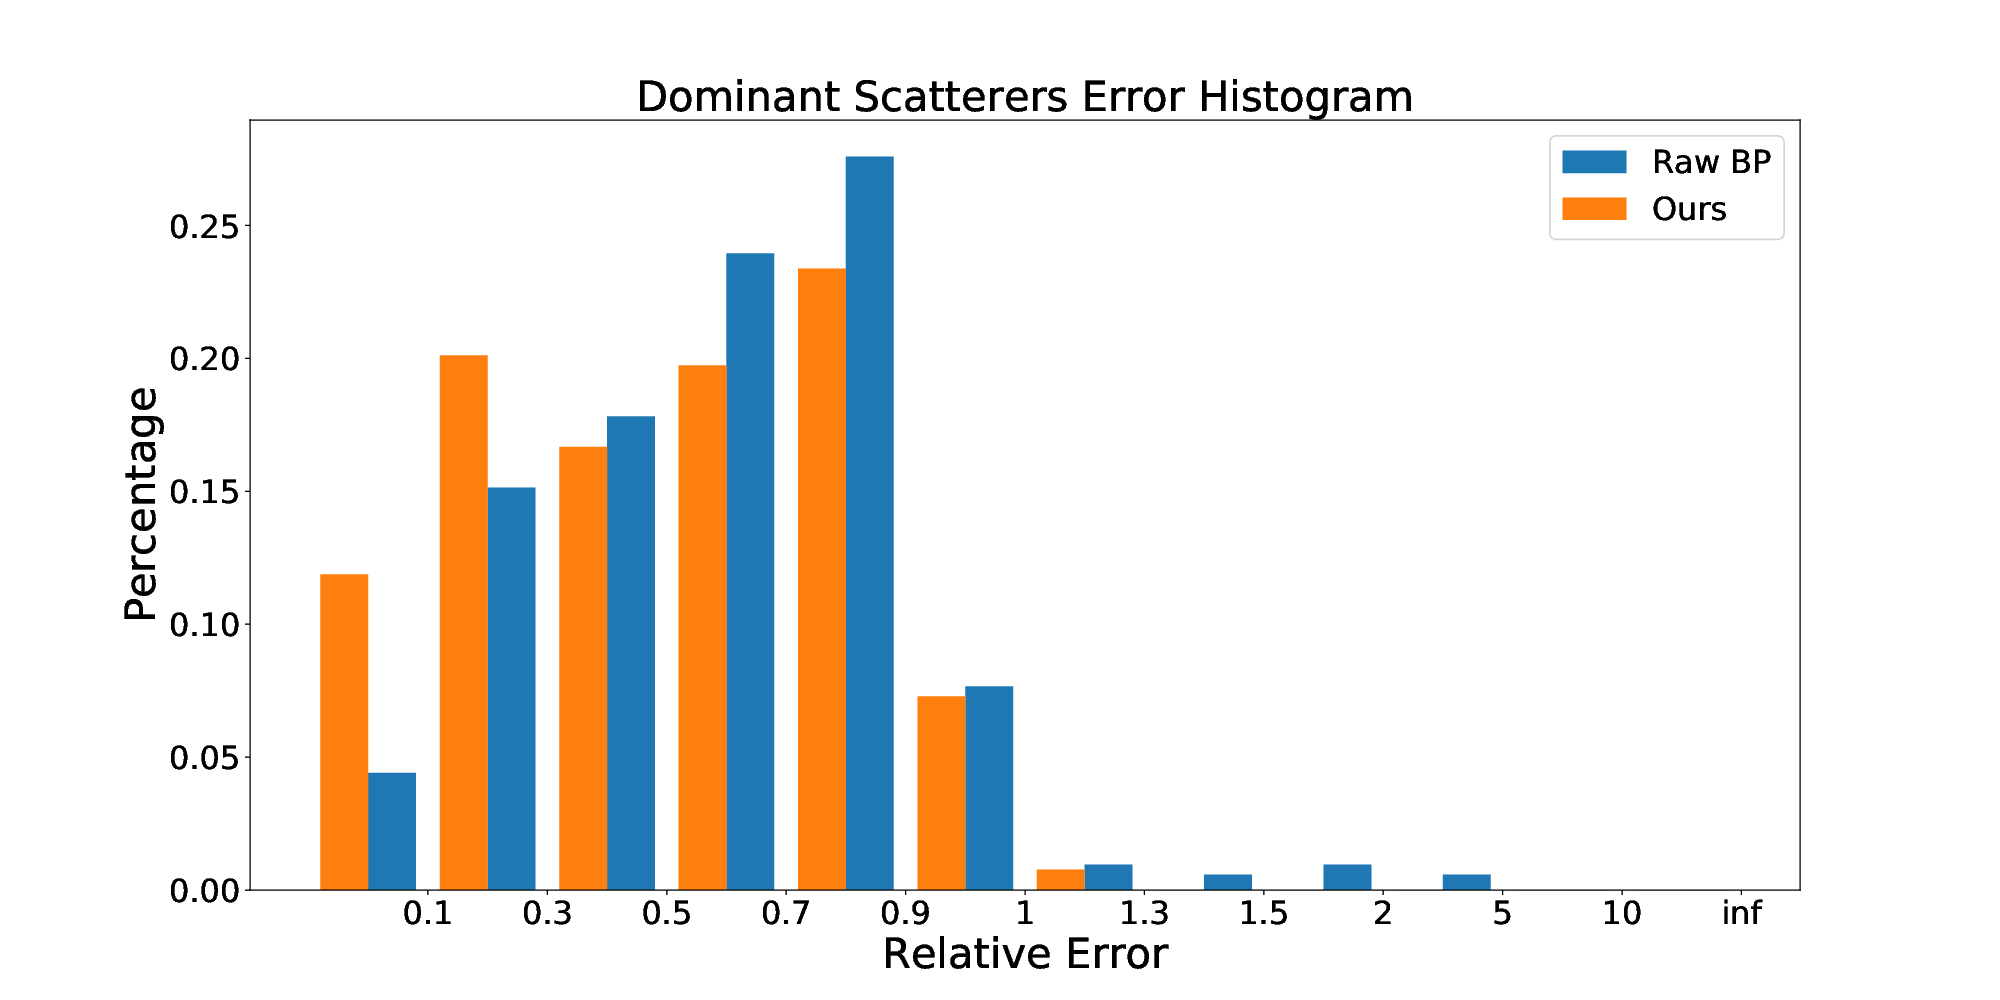
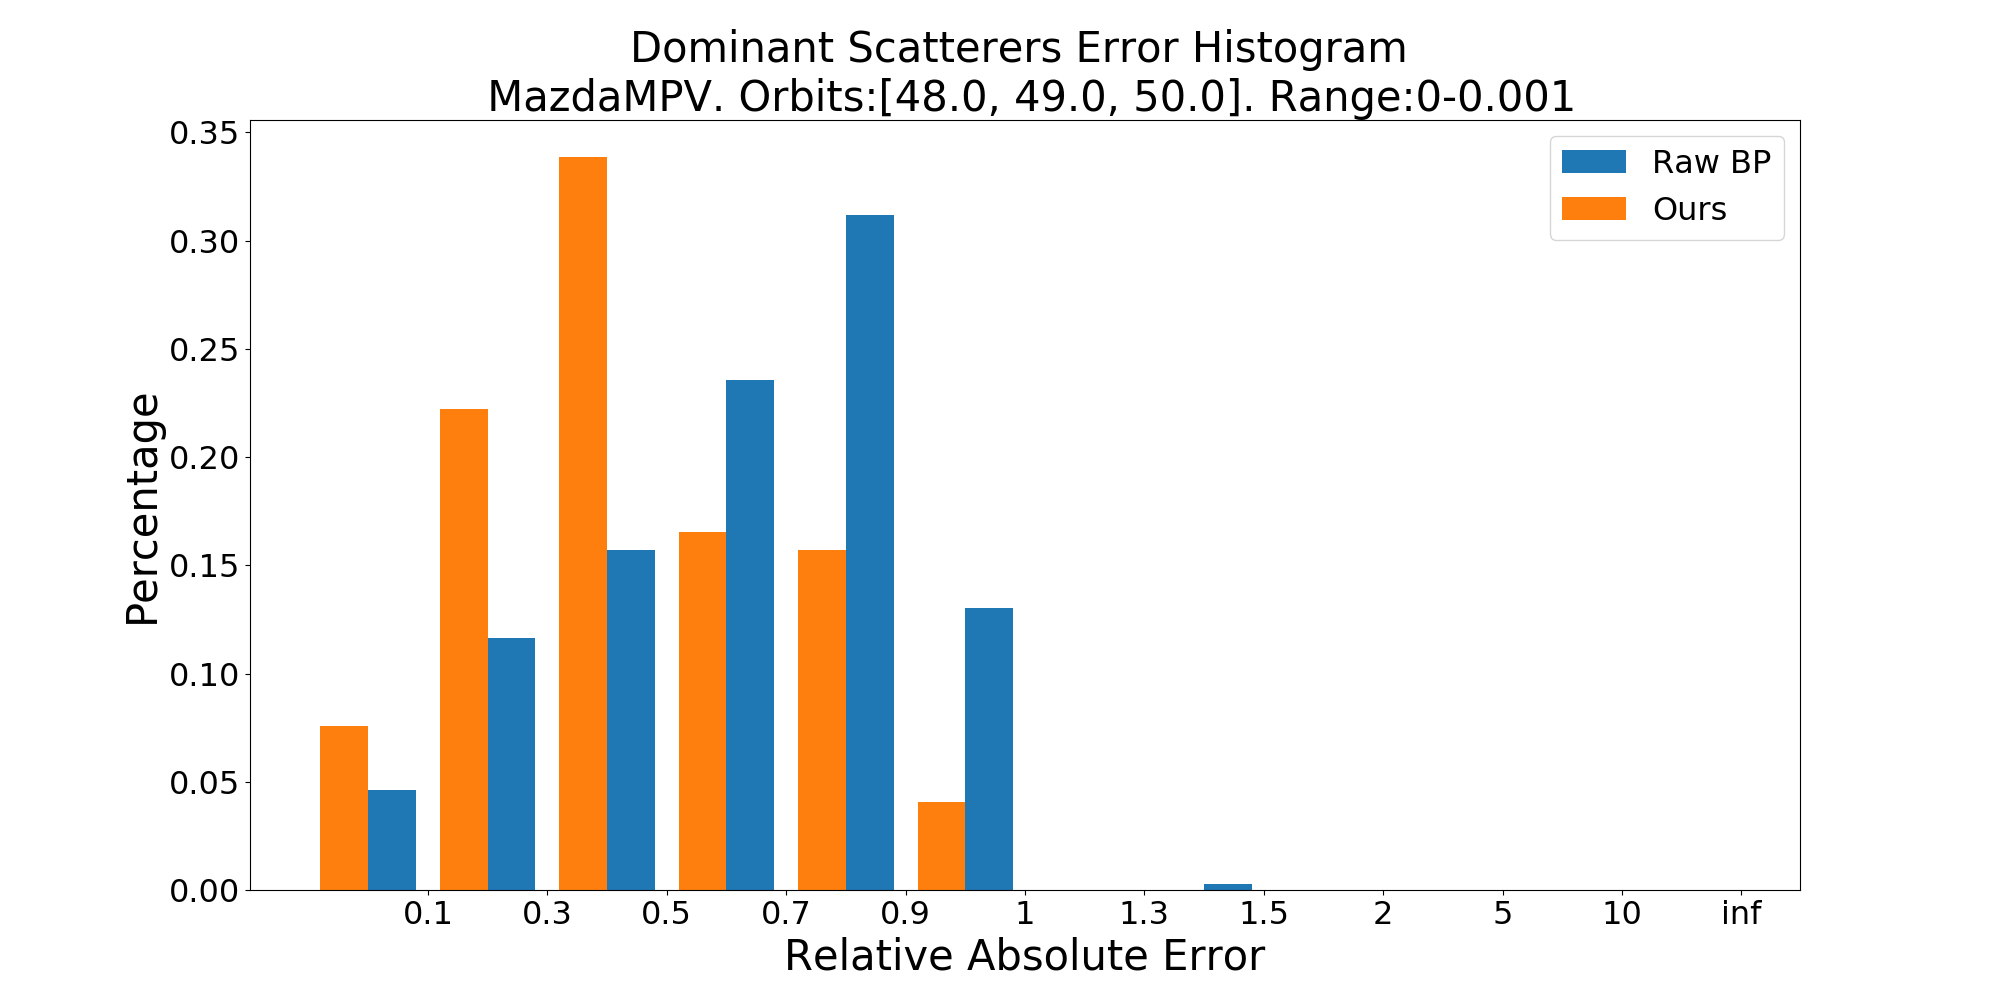
change figs and published as paper appendix

diff --git a/index.html b/index.html
@@ -4,7 +4,7 @@
 <title>Welcome to Results of Single Target SAR 3D Reconstruction Based on Deep Learning</title>
 <meta name="generator" content="Bluefish 2.2.10" >
 <meta name="author" content="wshong" >
-<meta name="date" content="2020-09-24T17:00:47+0800" >
+<meta name="date" content="2020-10-28T16:28:01+0800" >
 <meta name="copyright" content="">
 <meta name="keywords" content="">
 <meta name="description" content="">
@@ -20,7 +20,7 @@
 			<tr>
 				<td></td>
 				<td colspan="2"><div style="text-align: center;">Training Set(8 cars in total)</div></td>
-				<td colspan="2"><div style="text-align: center;">Testing Set(2 cars)</div></td>
+				<td colspan="2"><div style="text-align: center;">Validating Set(2 cars)</div></td>
 			</tr>
 			<tr>
 				<td><div style="text-align: center;">Name</div></td>
@@ -44,14 +44,15 @@
 				<td><img src="figs/TacomaSARFullSamplingBPImage.png" width="300" alt=""></td>
 			</tr>
 		</table>
-	<div style="text-align: left;"><b><h2>Experiment Results Without Noise(Error = |Pred - GT|/(GT + epsilon))</h2></b></div>
+	<div style="text-align: left;"><b><h2>Experiment Results Without Noise(Relative Absolute Error = |Pred - GT|/(GT + epsilon), epsilon = 1)</h2></b></div>
 		<table border=1 cellspacing=0 cellpadding=5>
+		<caption>Visualization Results</caption>
 			<tr>
 				<td></td>
-					<td>Input(3 Tracks BP)</td>
+					<td>Raw BP(3 Tracks BP)</td>
 					<td>Predicted</td>
 					<td>Comparison</td>
-					<td>Error Map(NMSE)</td>
+					<td>Error Map(Relative Absolute Error)</td>
 			</tr>
 			<tr>
 				<td>MPV</td>
@@ -68,8 +69,11 @@
 				<td><img src="figs/WithoutNoisePickup-DLT.png" width="300" height="183" alt=""></td>
 			</tr>
 		</table>	
+		<h3>Notice of the visualization results table:</h3>
+		* The first row is results of MPV car without noise. The MPV car is normal testing car for having similar structures with the training set. <br> The second row is results of Pickup car without noise. The Pickup car is hard testing car for having structures, like the isolated driver's cab and the open carriage, do not appear in the training set.<br>
+		* The first column is raw BP images generated by back-projection algorithm using data from 3 observation tracks.<br> The second column is the predicted images of the proposed method. <br> The third column is comparison of ground truth images and predicted images. We overlap ground truth images in blue color with predicted images in orange color to evaluate the performance. The predicted images approximate the ground truth images more closely than the raw BP results.<br> The forth column is the relative absolute error between the ground truth images and predicted images in space domain. The error mainly locates at the surface of cars, which indicates the ability of suppressing invalid information of the proposed method.
 		<table border=1 cellspacing=0 cellpadding=5>
-			<caption>Dominant Scatterers Error Histograms)</caption>
+			<caption>Dominant Scatterers Error Histograms</caption>
 			<tr>
 				<td></td>
 				<td><div style="text-align: center;">0~0.001*</div></td>
@@ -80,27 +84,30 @@
 			<tr>
 				<td>MPV</td>
 				<td><img src="figs/WithoutNoiseMPV-0-0001.png" width="300" height="150" alt=""></td>
-				<td><img src="figs/WithoutNoiseMPV-0001-001.png" width="300" height="150" alt=""></td>
-				<td><img src="figs/WithoutNoiseMPV-001-005.png" width="300" height="150" alt=""></td>
-				<td><img src="figs/WithoutNoiseMPV-005-01.png" width="300" height="150" alt=""></td>
+				<td><img src="figs/WithoutNoiseMPV-0001-0010.png" width="300" height="150" alt=""></td>
+				<td><img src="figs/WithoutNoiseMPV-0010-0050.png" width="300" height="150" alt=""></td>
+				<td><img src="figs/WithoutNoiseMPV-0050-0100.png" width="300" height="150" alt=""></td>
 			</tr>
 			<tr>
 				<td>Pickup</td>
 				<td><img src="figs/WithoutNoisePickup-0-0001.png" width="300" height="150" alt=""></td>
-				<td><img src="figs/WithoutNoisePickup-0001-001.png" width="300" height="150" alt=""></td>
-				<td><img src="figs/WithoutNoisePickup-001-005.png" width="300" height="150" alt=""></td>
-				<td><img src="figs/WithoutNoisePickup-005-01.png" width="300" height="150" alt=""></td>
+				<td><img src="figs/WithoutNoisePickup-0001-0010.png" width="300" height="150" alt=""></td>
+				<td><img src="figs/WithoutNoisePickup-0010-0050.png" width="300" height="150" alt=""></td>
+				<td><img src="figs/WithoutNoisePickup-0050-0100.png" width="300" height="150" alt=""></td>
 			</tr>
 		</table>
-		* means the strongest points of GT. We compare predicted points and raw 3 tracks BP points in locations of these corresponding strongest points 
-	<div style="text-align: left;"><b><h2>Experiment Results With Multiplicative Rayleigh Noise. SNR = 10(Error = |Pred - GT|/(GT + epsilon))</h2></b></div>
+		<h3>Notice of the Dominant Scatterers Error Histograms table:</h3>
+		* means this column shows the relative absolute error calculated using coordinates of top 0.1% strongest points in ground truth images.<br>
+		For each histogram in this table, testing car name can be recognized from titles. MazdaMPV means the normal MPV car and ToyotaTacoma means the hard Pickup car. <br>Orbits item in titles show the three observation orbits, whose data is used to generate raw BP images. <br>Range means this histogram calculates relative absolute error using coordinates of top percentage strongest points in ground truth image. <br>Horizontal axis is the relative absolute error. Value is closer to ground truth if its relative absolute error is close to zero. <br>Vertical axis is the percentage of points in different errors. <br>Orange marks the results of our method. Blue marks the results of raw BP.
+	<div style="text-align: left;"><b><h2>Experiment Results With Multiplicative Rayleigh Noise. SNR=10dB(Relative Absolute Error = |Pred - GT|/(GT + epsilon), epsilon = 1)</h2></b></div>
 		<table border=1 cellspacing=0 cellpadding=5>
+		<caption>Visualization Results</caption>
 			<tr>
 				<td></td>
 					<td>Input(3 Tracks BP)</td>
 					<td>Predicted</td>
 					<td>Comparison</td>
-					<td>Error Map(NMSE)</td>
+					<td>Error Map(Relative Absolute Error)</td>
 			</tr>
 			<tr>
 				<td>MPV</td>
@@ -129,16 +136,16 @@
 			<tr>
 				<td>MPV</td>
 				<td><img src="figs/WithNoiseMPV-0-0001.png" width="300" height="150" alt=""></td>
-				<td><img src="figs/WithNoiseMPV-0001-001.png" width="300" height="150" alt=""></td>
-				<td><img src="figs/WithNoiseMPV-001-005.png" width="300" height="150" alt=""></td>
-				<td><img src="figs/WithNoiseMPV-005-01.png" width="300" height="150" alt=""></td>
+				<td><img src="figs/WithNoiseMPV-0001-0010.png" width="300" height="150" alt=""></td>
+				<td><img src="figs/WithNoiseMPV-0010-0050.png" width="300" height="150" alt=""></td>
+				<td><img src="figs/WithNoiseMPV-0050-0100.png" width="300" height="150" alt=""></td>
 			</tr>
 			<tr>
 				<td>Pickup</td>
 				<td><img src="figs/WithNoisePickup-0-0001.png" width="300" height="150" alt=""></td>
-				<td><img src="figs/WithNoisePickup-0001-001.png" width="300" height="150" alt=""></td>
-				<td><img src="figs/WithNoisePickup-001-005.png" width="300" height="150" alt=""></td>
-				<td><img src="figs/WithNoisePickup-005-01.png" width="300" height="150" alt=""></td>
+				<td><img src="figs/WithNoisePickup-0001-0010.png" width="300" height="150" alt=""></td>
+				<td><img src="figs/WithNoisePickup-0010-0050.png" width="300" height="150" alt=""></td>
+				<td><img src="figs/WithNoisePickup-0050-0100.png" width="300" height="150" alt=""></td>
 			</tr>
 		</table>
 </body>
